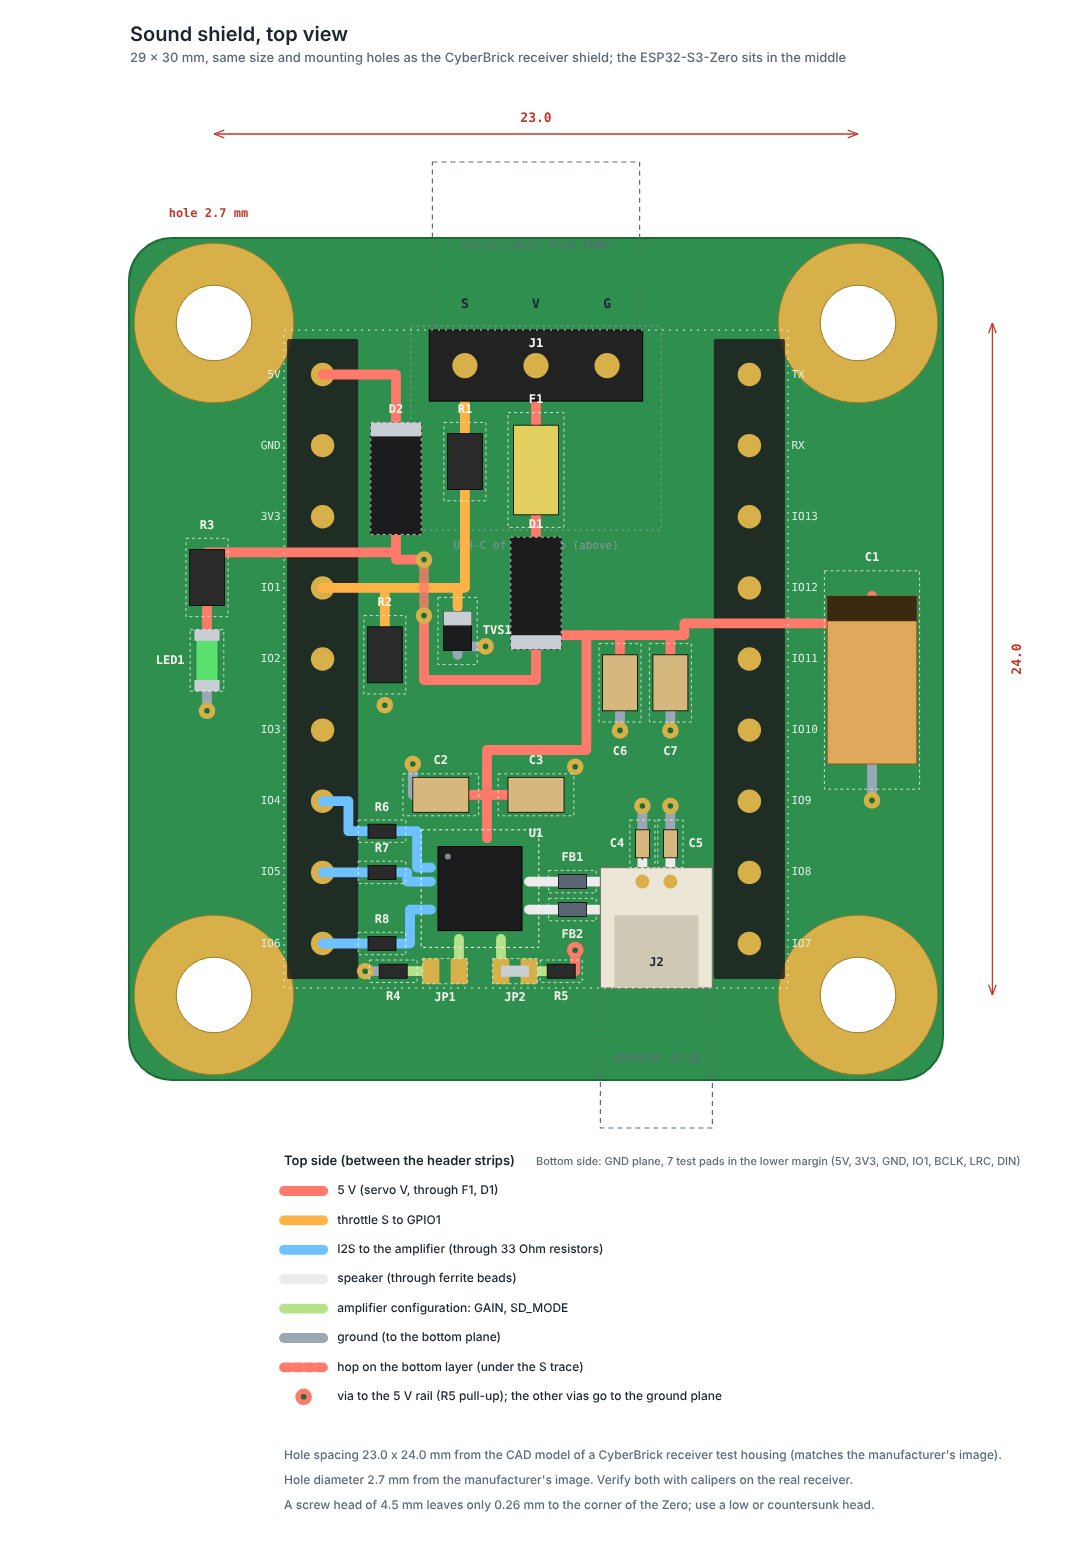
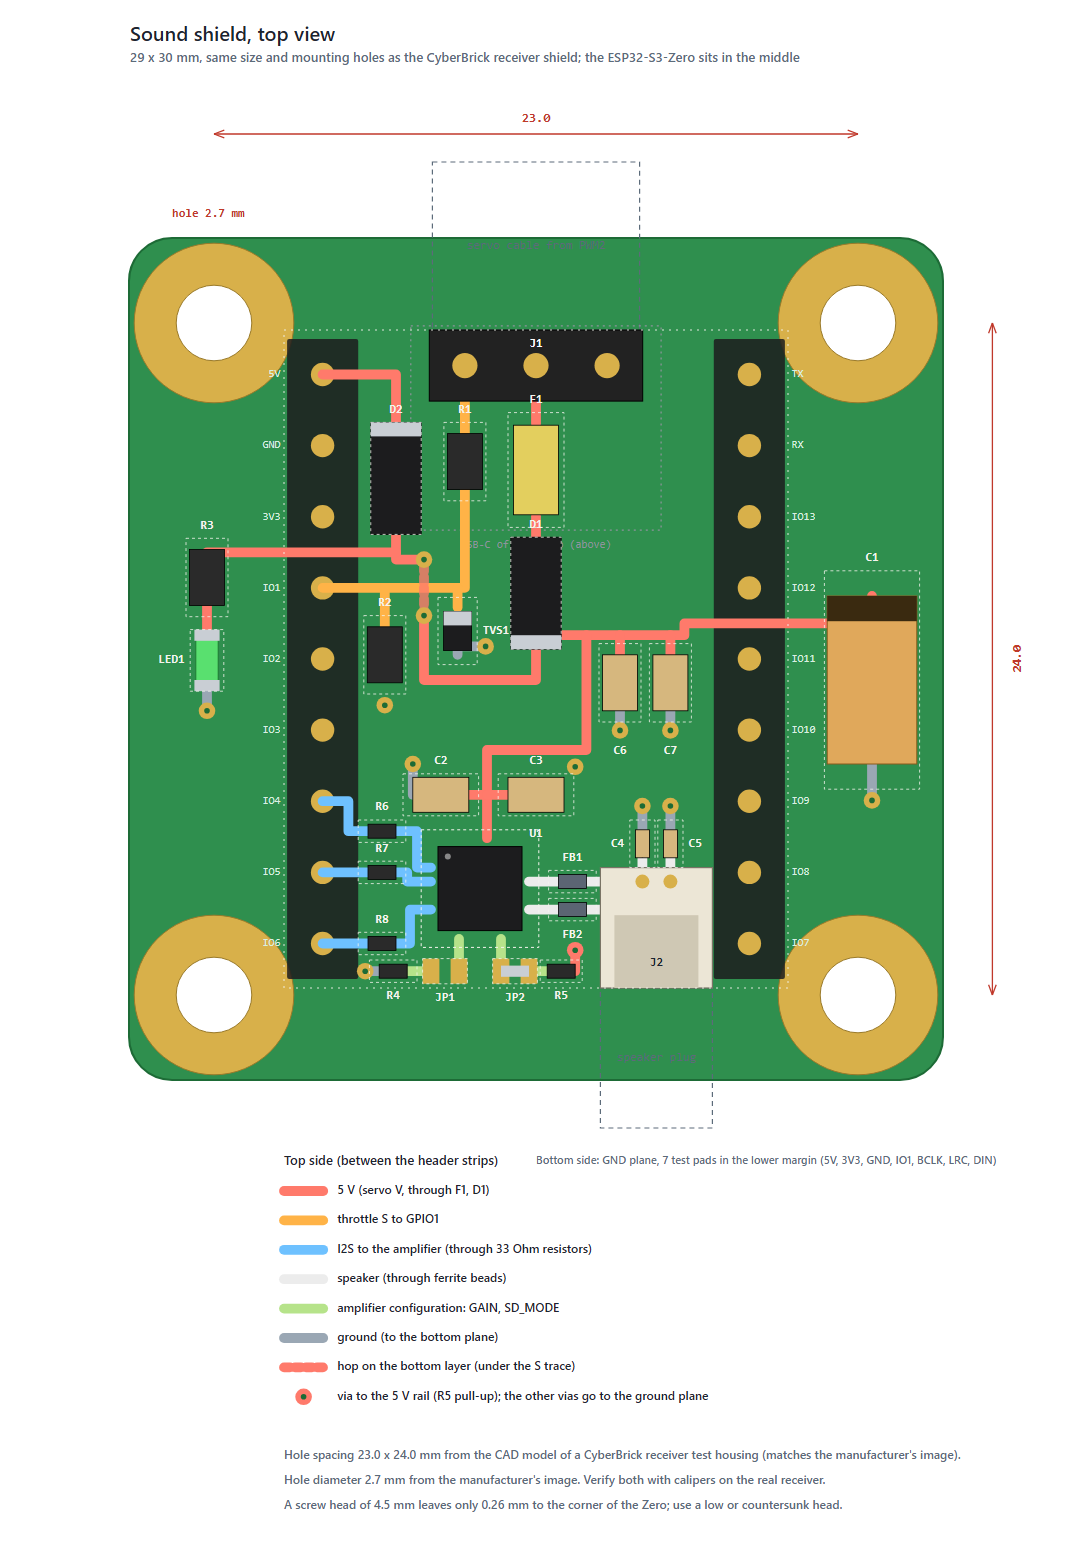
Mock without S V G (rev A has none; generator fixed, PNG regenerated); rev B picture with the intended USB-C label

diff --git a/tools/make_shield_mock.py b/tools/make_shield_mock.py
@@ -123,8 +123,7 @@ def panel(vid, title, sub, tx_px=None):
             o.append(rect(x0, y0, x1, y1, fill="#222", stroke="#000", stroke_width=1))
             for px in L.J1_X:
                 o.append(f'<circle cx="{X(px):.1f}" cy="{Y(L.J1_Y):.1f}" r="{0.45 * S:.1f}" fill="#d8b04a"/>')
-            for px, nm in zip(L.J1_X, "SVG"):
-                o.append(text(px, -0.9, nm, 13, "middle", 700))
+            # no S V G letters: rev A has none on the board (they are only on rev B)
         elif k == "jst_side":
             o.append(rect(x0, y0, x1, y1, fill="#ece6d6", stroke="#7a7466", stroke_width=1.2))
             o.append(rect(x0 + 0.5, y0 + 1.7, x1 - 0.5, y1, fill="#cfc8b4", stroke="none"))

diff --git a/docs/shield-pcb-rev-b.md b/docs/shield-pcb-rev-b.md
@@ -6,7 +6,7 @@ decisions). Rev B and the ideas below can be out of date against rev A and again
 
 ## Rev B (prepared 2026-11-14, not ordered)
 
-![Rev B as intended, top side: S V G, J3 and J4, "CB SND rev B", the plus at C1 (3D render of the current rev B files, not a photo; nothing of it is ordered or built)](shield-pcb-rev-b-top.png)
+![Rev B as intended, top side: S V G, J3 and J4, "CB SND rev B", the plus at C1, and the intended "USB-C" label at the Zero's USB-C end (3D render of the current rev B files with the label added to the picture only: the label is not in the board files yet; nothing of it is ordered or built)](shield-pcb-rev-b-top.png)
 
 Made by `tools/make_shield_rev_b.py` from the rev A board; nothing electrical changes (no part, pad, track or zone
 moves). Checked: the BOM, the placement files (`fab/jlcpcb*`, `fab/pcbway`, `shield_positions.csv`) come out the same
@@ -47,6 +47,6 @@ Collected for the version after rev B (the silkscreen of rev B is done, see "Rev
 
 ## Ideas and open points for a later revision
 
-- **Marking the USB side of the Zero (2026-11-22, an idea for the silkscreen):** instead of J3 and J4 (the names of the socket strips, which tell nothing to the user) write **USB** on the board at the end where the Zero's USB-C connector is, so that the Zero is fitted the right way round without counting pins. The square pad of pin 1 stays. Not done on rev B yet.
+- **Marking the USB side of the Zero (2026-11-22, an idea for the silkscreen):** instead of J3 and J4 (the names of the socket strips, which tell nothing to the user) write **USB** on the board at the end where the Zero's USB-C connector is, so that the Zero is fitted the right way round without counting pins. The square pad of pin 1 stays. Shown in the picture of rev B as "USB-C" at the Zero's USB-C end (added to the picture only); not in the board files yet.
 
 - **Open (noted 2026-11-15): fitting J1/J3/J4 at JLCPCB for a large series.** Not decided, only looked at. JLCPCB offers through-hole assembly (wave/selective or hand soldering); the fee figures found are second-hand and from 2024-25 (roughly 3.50 USD fixed plus about 0.02 USD per joint), so take the real number from the order quote. LCSC has 1x9, 8.5 mm female strips: C2897372 (HCTL PM254-1-09-Z-8.5, about 8000 in stock, looks like the best match), C22373895 (Hong Cheng, gold), C7509520 (CONNFLY DS1023-1x9SF11, gold), C225506 (CJT A2541HWV-9P); price and pin length not checked. Risk: with the Zero plugged in the two strips are held parallel, the service has no Zero to do that, so they may stand a little crooked; try a few boards first. The small run (5 boards) keeps the hand-cut GME strips. Other strips looked at and not chosen: Preci-Dip 801-87-007-10-001101 (7 positions, 7 mm, precision contacts) and an eBay lot of 24 PPTC091LFBN-RC from Canada (about 815 CZK with shipping).
